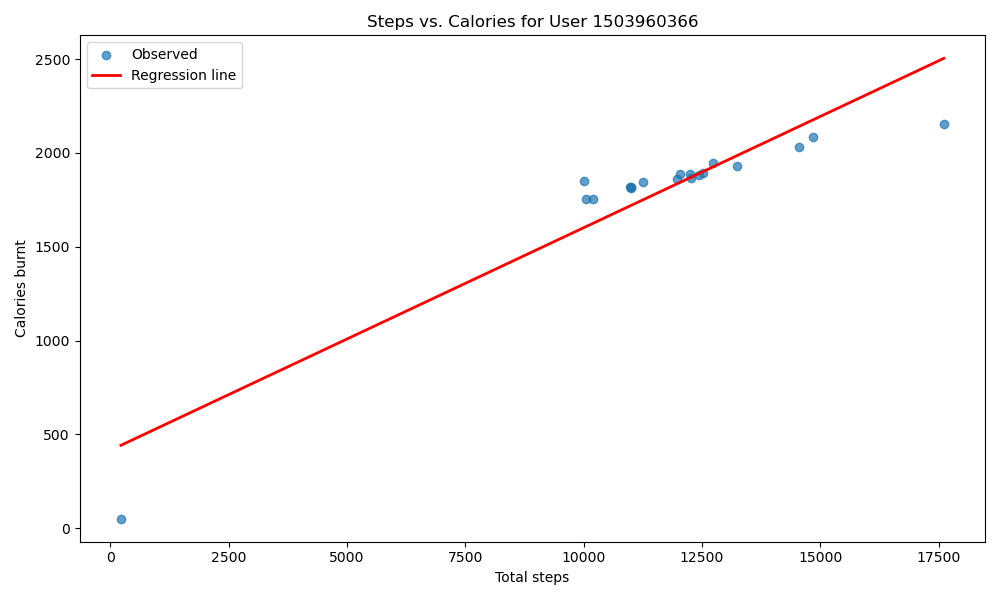
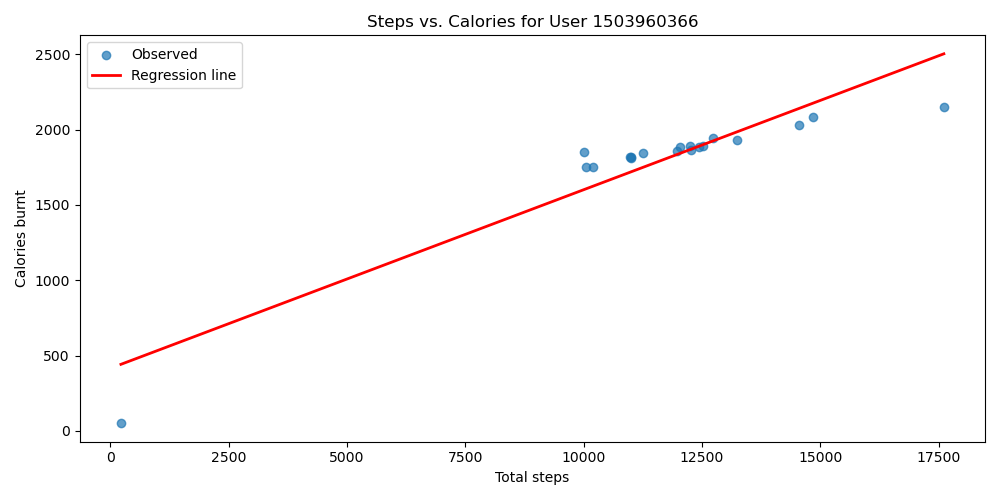
Added a correlation matrix & heatmap

diff --git a/part1/a1.py b/part1/a1.py
@@ -14,6 +14,7 @@
 import os
 import pandas as pd
 import matplotlib.pyplot as plt
+import seaborn as sns
 import datetime
 import statsmodels.api as sm
 import statsmodels.formula.api as smf
@@ -21,6 +22,7 @@ import statsmodels.formula.api as smf
 
 FILEPATH = "./daily_activity.csv"
 PLOTPATH = "plots"
+os.makedirs(PLOTPATH, exist_ok=True)
 SHOWPLOTS = False
 
 def showCaloriesPerDay(df, userId, timeRange=(None, None)):
@@ -93,8 +95,7 @@ def indivdual_steps_vs_calories(df, id):
     user_data = df[df['Id'] == id]
     linear_model = relationshipCaloriesSteps(df)
 
-    # Always draw on a fresh figure so previous pandas plots don't leak into this one.
-    fig, ax = plt.subplots(figsize=(10, 6))
+    fig, ax = plt.subplots(figsize=(10, 5))
     ax.scatter(user_data['TotalSteps'], user_data['Calories'], alpha=0.7, label='Observed')
 
     user_data_sorted = user_data.sort_values('TotalSteps')
@@ -132,7 +133,14 @@ def main():
     indivdual_steps_vs_calories(df, 1503960366)
 
     # Additional data exploration
-
+    ## Correlation matrix between the variables
+    variables = df.drop(['Id', 'ActivityDate', 'Weekday'], axis = 1)
+    correlations = variables.corr()
+    plt.figure(figsize=(15, 10))
+    sns.heatmap(correlations, annot=True, cmap='coolwarm')
+    plt.title('Correlations between the variables')
+    plt.tight_layout()
+    plt.savefig(os.path.join(PLOTPATH, f"correlation_matrix.png"))
 
 if __name__ == "__main__":
     main()